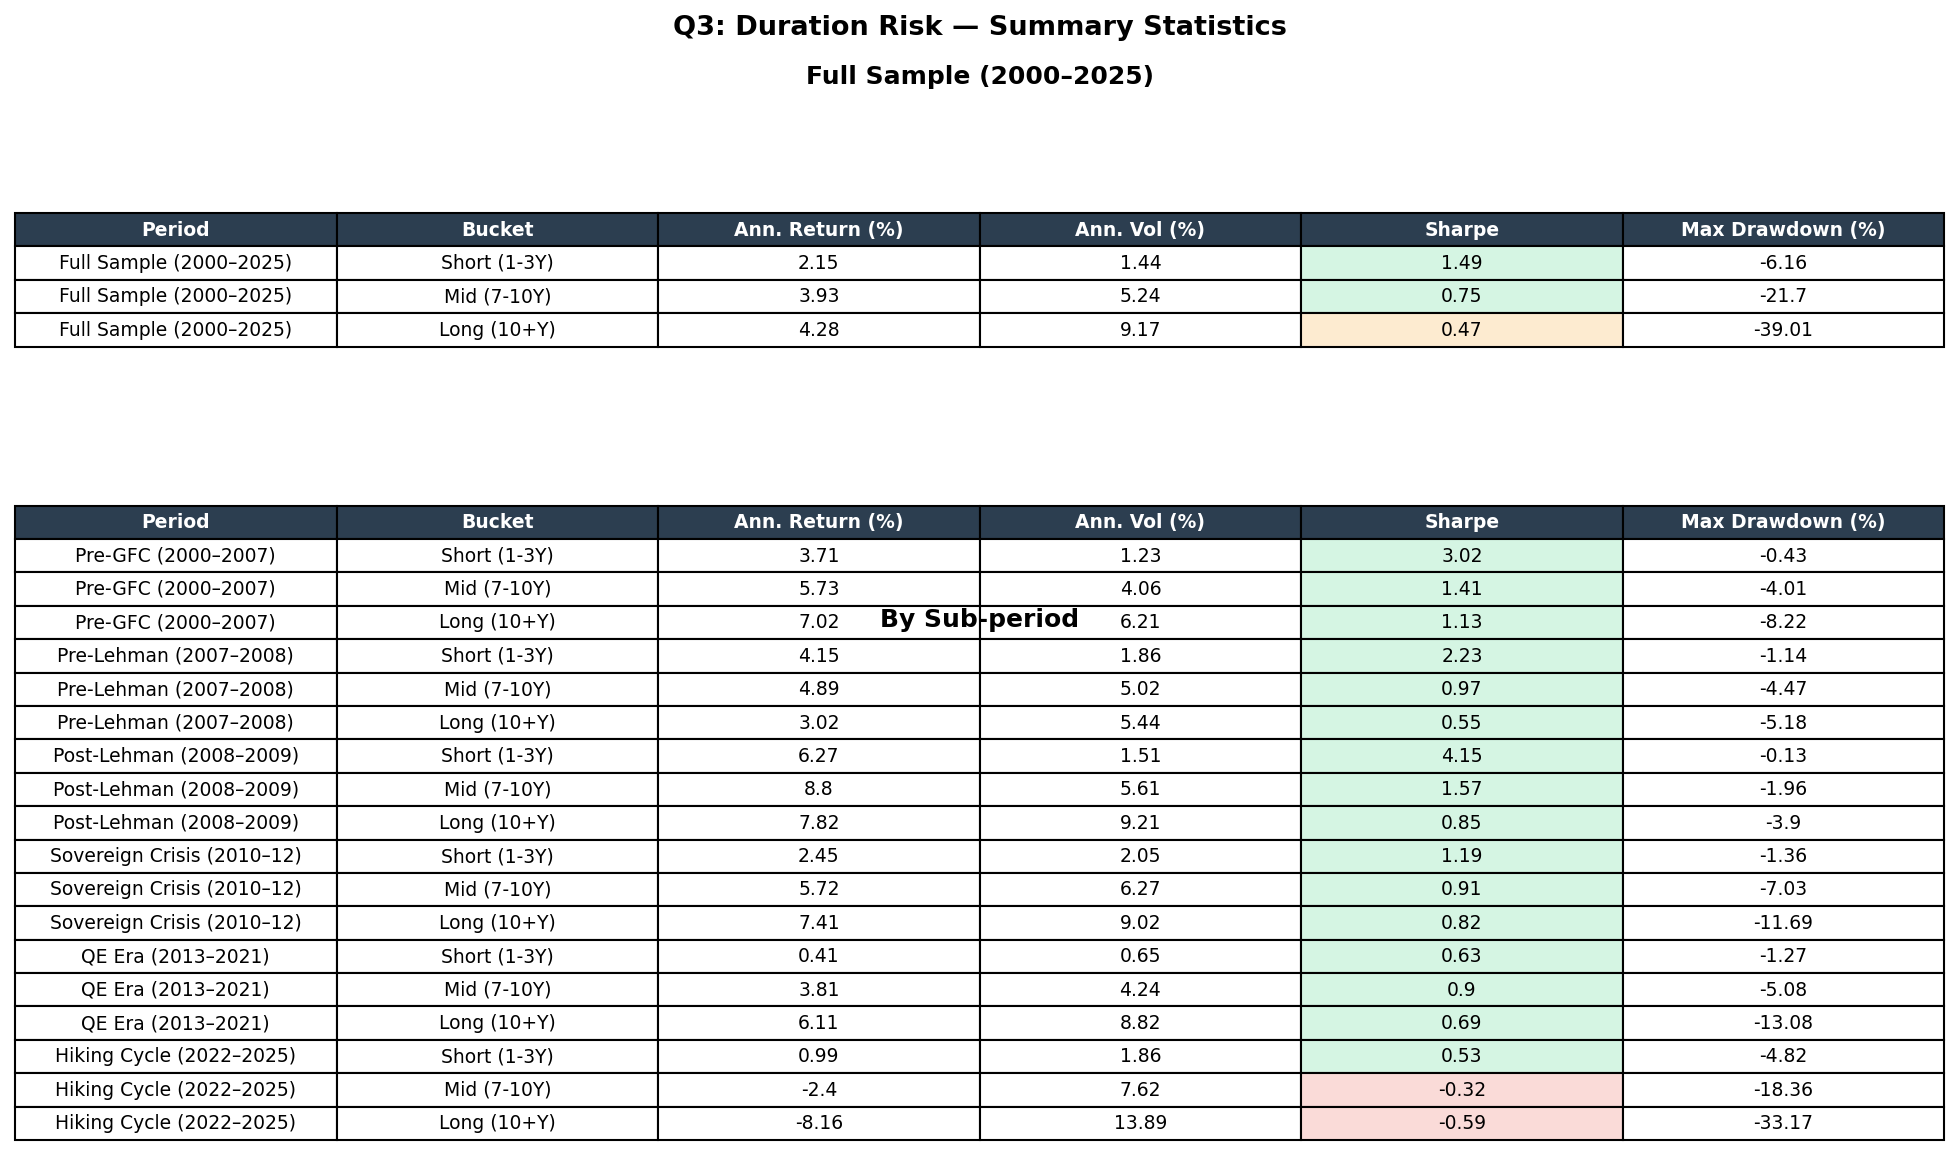
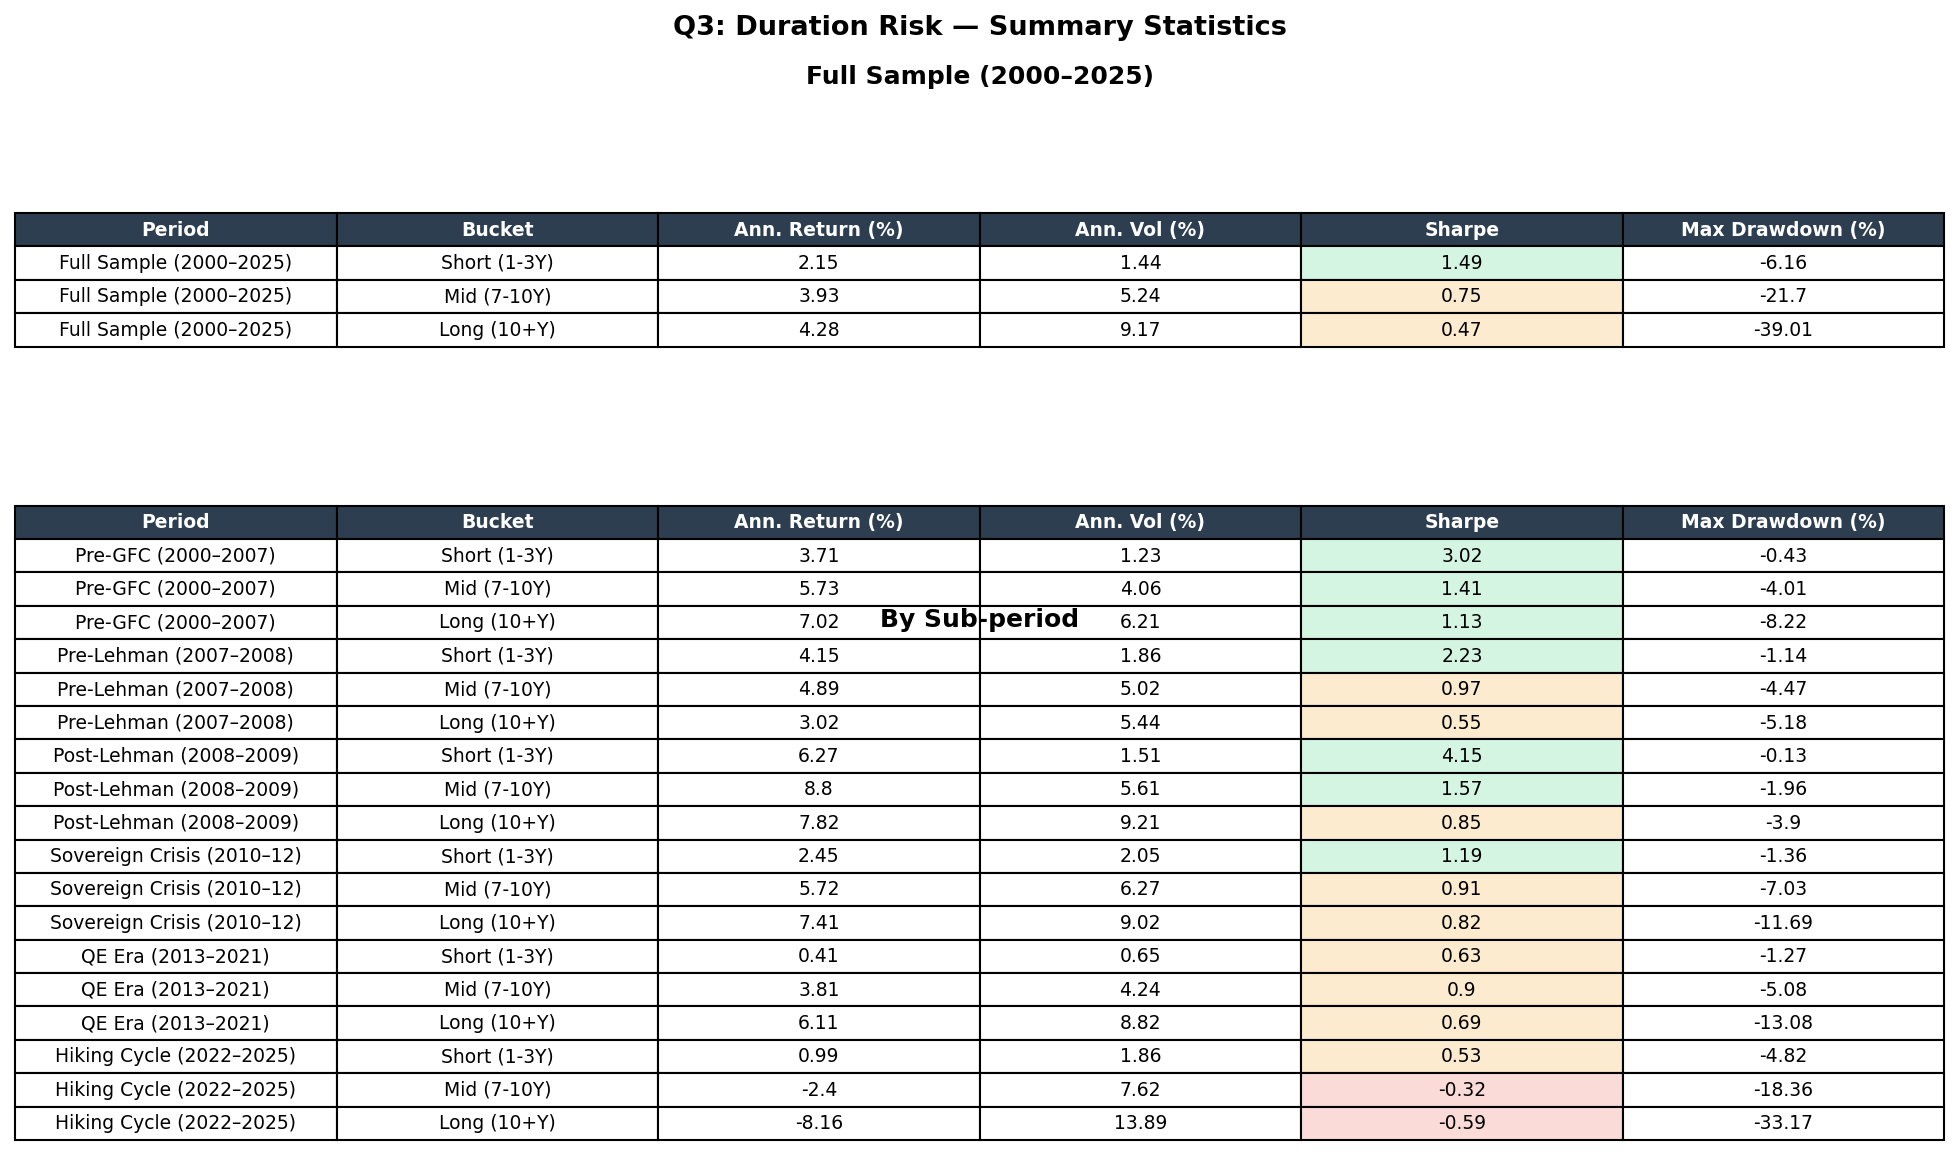
updated colors

Changed region(s): [[0.6539, 0.6857, 0.8407, 0.9351], [0.6539, 0.561, 0.8407, 0.6545], [0.6539, 0.2182, 0.8407, 0.2805]]

diff --git a/src/testing.py b/src/testing.py
@@ -1,0 +1,52 @@
+import pandas as pd
+import numpy as np
+
+from pathlib import Path
+BASE = Path(__file__).parent.parent
+
+etf = pd.read_parquet(BASE / "data/processed/etf_returns.parquet")
+ref = pd.read_parquet(BASE / "data/processed/refinitiv_returns.parquet")
+
+
+# Align to same index format
+etf.index = etf.index.to_period("M").to_timestamp("M")
+ref.index = ref.index.to_period("M").to_timestamp("M")
+
+# Compare overlapping period (2008-2025) for govt_short
+overlap = pd.DataFrame({
+    "etf":  etf["govt_short_logret"],
+    "iboxx": ref["govt_short_logret"],
+}).dropna()
+
+print(f"Overlapping months: {len(overlap)}")
+print(f"\n── Govt short ──")
+print(f"\nCorrelation: {overlap['etf'].corr(overlap['iboxx']):.4f}")
+print(f"\nETF  ann return: {overlap['etf'].mean()*12*100:.2f}%")
+print(f"iBoxx ann return: {overlap['iboxx'].mean()*12*100:.2f}%")
+print(f"Difference:       {(overlap['iboxx'].mean()-overlap['etf'].mean())*12*100:.2f}% p.a.")
+print(f"\nETF  ann vol: {overlap['etf'].std()*np.sqrt(12)*100:.2f}%")
+print(f"iBoxx ann vol: {overlap['iboxx'].std()*np.sqrt(12)*100:.2f}%")
+
+# Same for govt_mid
+overlap_mid = pd.DataFrame({
+    "etf":  etf["govt_mid_logret"],
+    "iboxx": ref["govt_mid_logret"],
+}).dropna()
+
+print(f"\n── Govt Mid ──")
+print(f"Correlation: {overlap_mid['etf'].corr(overlap_mid['iboxx']):.4f}")
+print(f"ETF  ann return: {overlap_mid['etf'].mean()*12*100:.2f}%")
+print(f"iBoxx ann return: {overlap_mid['iboxx'].mean()*12*100:.2f}%")
+print(f"Difference:       {(overlap_mid['iboxx'].mean()-overlap_mid['etf'].mean())*12*100:.2f}% p.a.")
+
+# Same for govt_long
+overlap_long = pd.DataFrame({
+    "etf":  etf["govt_long_logret"],
+    "iboxx": ref["govt_long_logret"],
+}).dropna()
+
+print(f"\n── Govt Long ──")
+print(f"Correlation: {overlap_long['etf'].corr(overlap_long['iboxx']):.4f}")
+print(f"ETF  ann return: {overlap_long['etf'].mean()*12*100:.2f}%")
+print(f"iBoxx ann return: {overlap_long['iboxx'].mean()*12*100:.2f}%")
+print(f"Difference:       {(overlap_long['iboxx'].mean()-overlap_long['etf'].mean())*12*100:.2f}% p.a.")

diff --git a/src/Q5_equity_bond_portfolio.py b/src/Q5_equity_bond_portfolio.py
@@ -16,6 +16,15 @@ from src.data_loader import (
 from scipy.signal import savgol_filter
 import csv
 
+def sharpe_color(s):
+    if s > 1:
+        return "#d5f5e3"   # strong green
+    elif s > 0.5:
+        return "#e8f8f5"   # light green
+    elif s > 0:
+        return "#fdebd0"   # orange
+    else:
+        return "#fadbd8"   # red
 
 # ══════════════════════════════════════════════════════════════
 # 1. DATA PREPARATION
@@ -565,8 +574,7 @@ def plot_summary_table(bond_stats: pd.DataFrame,
 
         try:
             s = float(table[(i, sharpe_col)].get_text().get_text())
-            table[(i, sharpe_col)].set_facecolor(
-                "#D5F5E3" if s > 0.5 else "#FDEBD0" if s > 0 else "#FADBD8")
+            table[(i, sharpe_col)].set_facecolor(sharpe_color(s))
         except ValueError:
             pass
 
@@ -632,8 +640,14 @@ def plot_systematic_risk_table(model, source: str) -> plt.Figure:
 
     # Highlight alpha row
     try:
-        a_pval = model.pvalues['const']
-        color = "#D5F5E3" if a_pval < 0.05 else "#FDEBD0"
+        alpha = model.params['const']
+        pval = model.pvalues['const']
+
+        if pval < 0.05:
+            color = "#d5f5e3" if alpha > 0 else "#fadbd8"
+        else:
+            color = "#fdebd0"
+
         for j in range(4):
             table[(1, j)].set_facecolor(color)
     except Exception:

diff --git a/src/Q4_credit_markets.py b/src/Q4_credit_markets.py
@@ -31,7 +31,15 @@ from src.data_loader import (
     load_corp_returns_refinitiv,
 )
 
-
+def sharpe_color(s):
+    if s > 1:
+        return "#d5f5e3"   # strong green
+    elif s > 0.5:
+        return "#e8f8f5"   # light green
+    elif s > 0:
+        return "#fdebd0"   # orange
+    else:
+        return "#fadbd8"   # red
 # ── 0. Data loading — Refinitiv preferred, ETF fallback ──────
 
 def load_q4_returns() -> tuple[pd.DataFrame, str]:
@@ -349,8 +357,7 @@ def plot_summary_table(df_table: pd.DataFrame) -> plt.Figure:
         # Colour Sharpe
         try:
             s = float(table[(i, sharpe_col)].get_text().get_text())
-            table[(i, sharpe_col)].set_facecolor(
-                "#D5F5E3" if s > 0.5 else "#FDEBD0" if s > 0 else "#FADBD8")
+            table[(i, sharpe_col)].set_facecolor(sharpe_color(s))
         except ValueError:
             pass
 

diff --git a/src/Q3_duration_risk.py b/src/Q3_duration_risk.py
@@ -240,7 +240,7 @@ def plot_summary_table(df_table: pd.DataFrame) -> plt.Figure:
             val = table[(i, sharpe_col)].get_text().get_text()
             try:
                 s = float(val)
-                color = "#d5f5e3" if s > 0.5 else "#fdebd0" if s > 0 else "#fadbd8"
+                color = "#d5f5e3" if s > 1 else "#fdebd0" if s > 0 else "#fadbd8"
                 table[(i, sharpe_col)].set_facecolor(color)
             except ValueError:
                 pass
